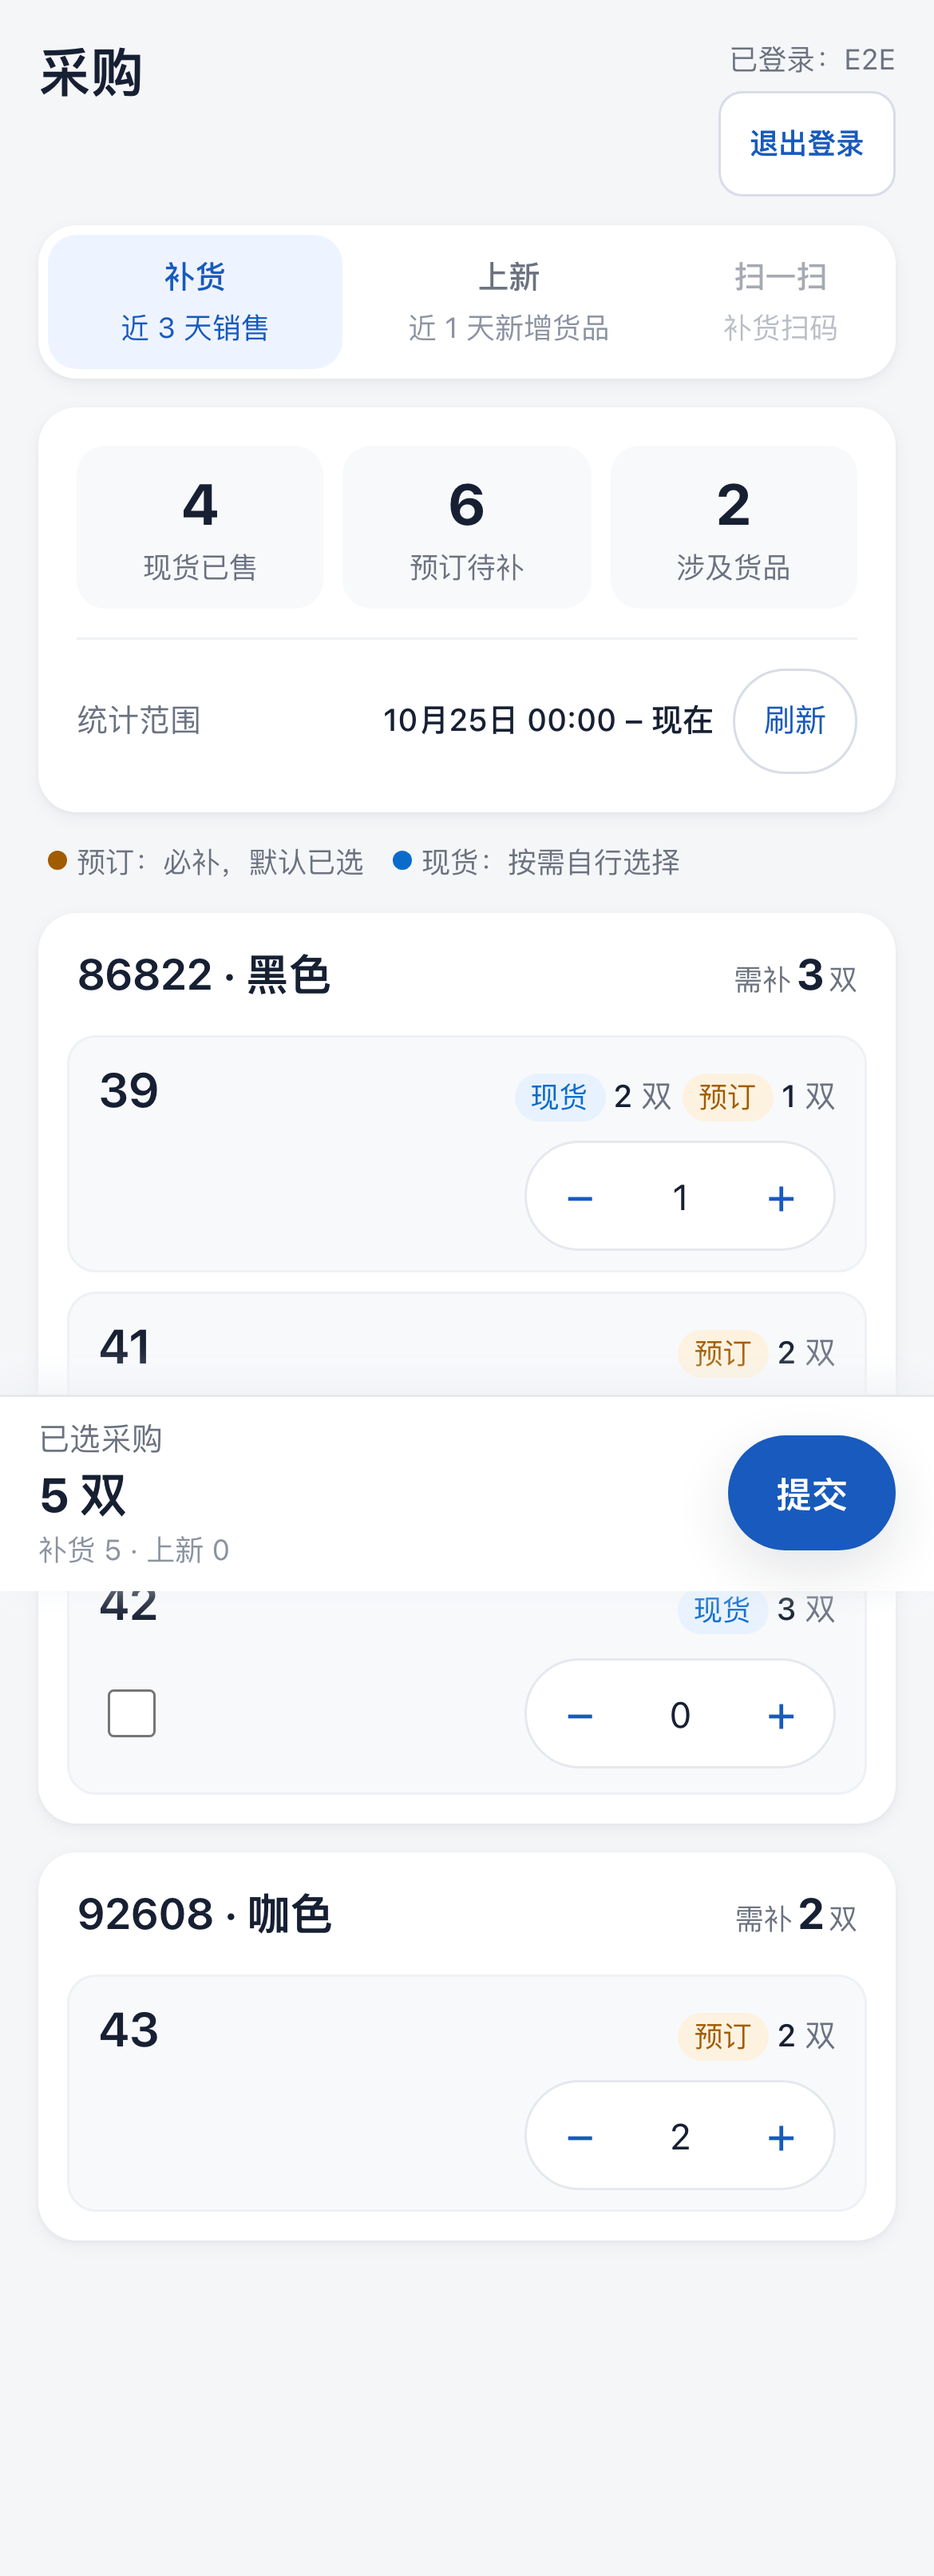
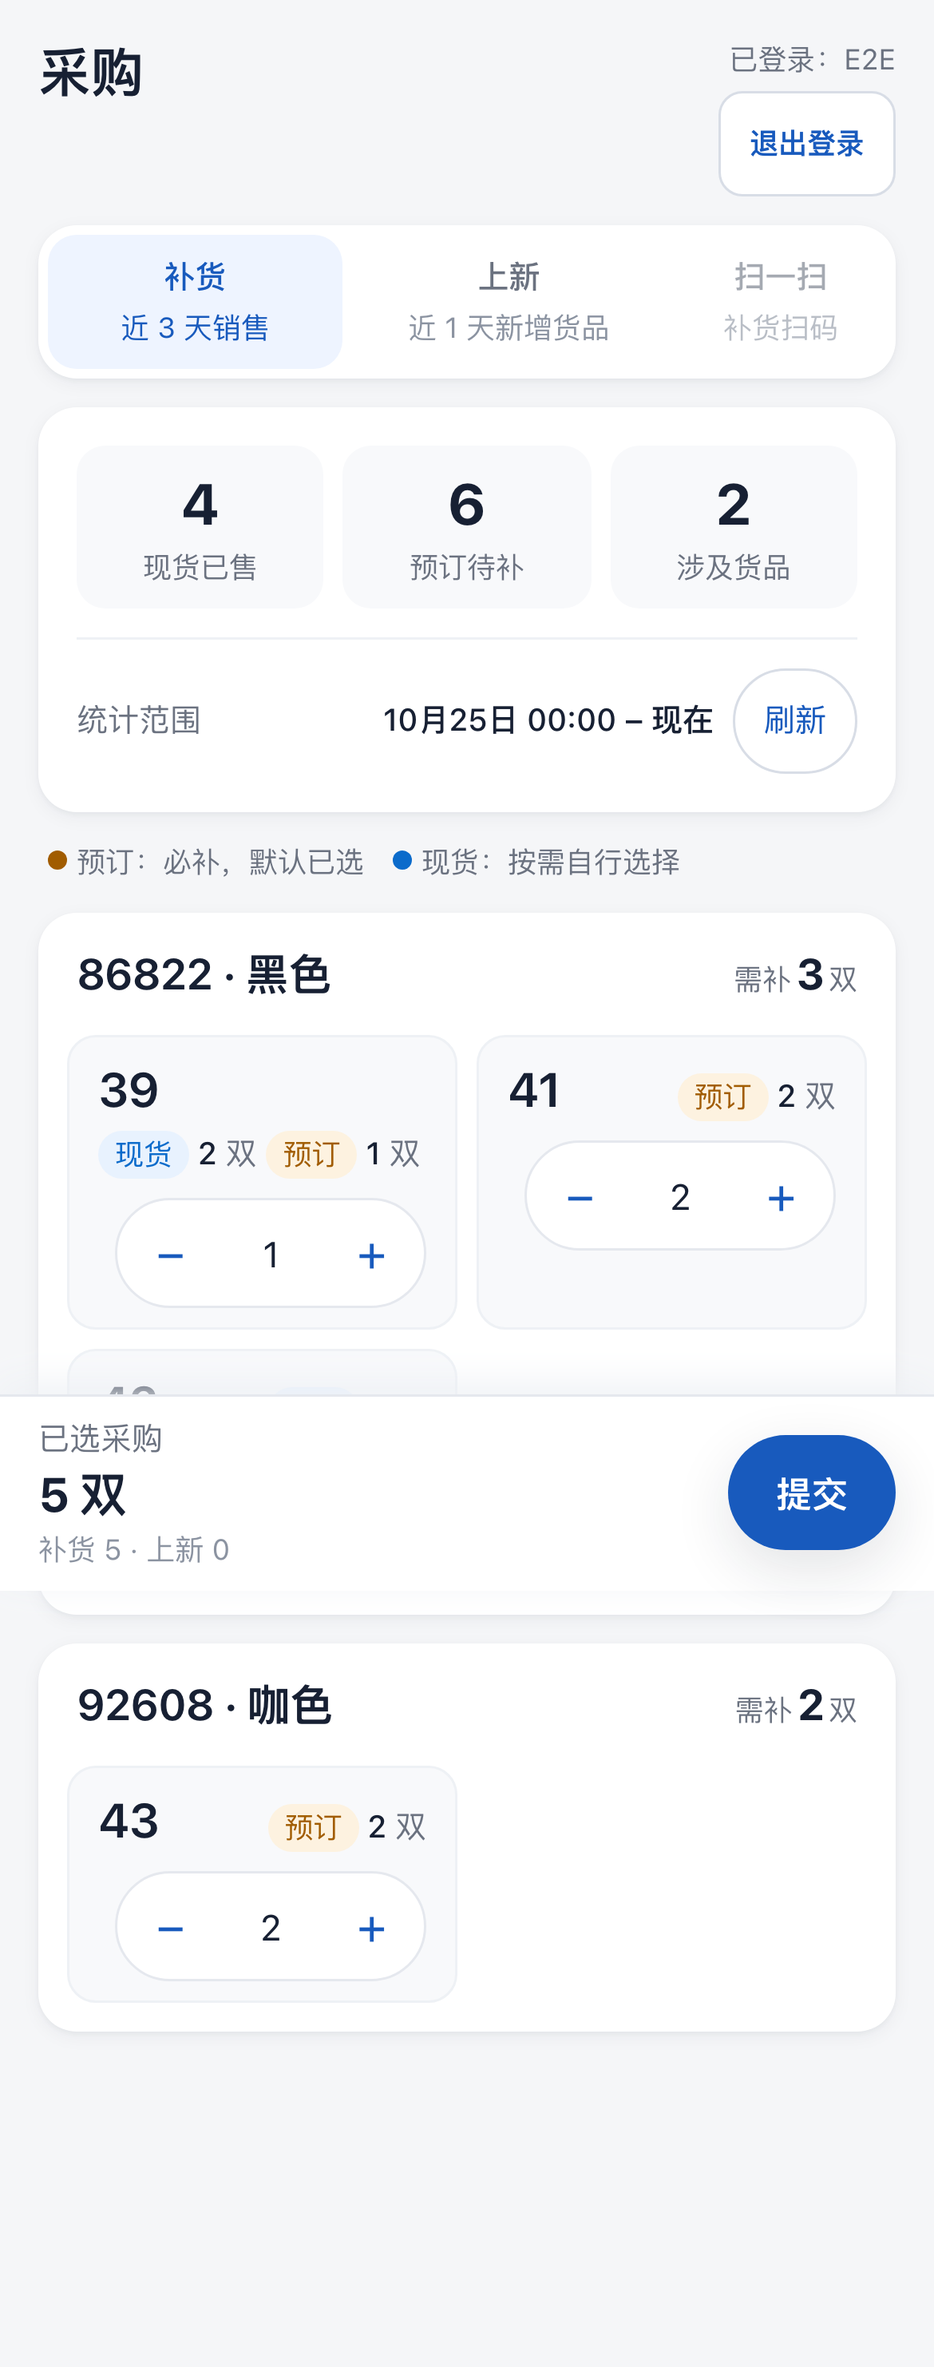
fix(procurement): 去掉所有尺码行勾选框 + 恢复一行两个尺码（业务负责人 2026-10-29 批注）
- 补货尺码行**不再显示任何勾选框**（预订行的对勾、现货行的方框都不要）；
  是否选中由数量框决定（0=不选，>0=选中）；现货行第一次点 + 按「现货已售数」选中，再 ± 微调，数量可直接手改；
- 尺码卡恢复**一行两个**（390 宽不横向滚动），每张卡仍保持上下两栏（尺码+现货/预订信息 / 加减圆框）；
- e2e 更新：全页无 [data-pr-check]；现货行 + 一次=现货数；docs 更新 AC-P18b/P18c。
- 全量 2262 tests / 2261 pass / 0 fail；e2e 14 passed；size:check 绿。

diff --git a/server/public/workbench/features/procurement/index.js b/server/public/workbench/features/procurement/index.js
@@ -12,7 +12,7 @@ import { requireFeishuAuth, showLoginButton } from '../../core/auth.js';
 import { describeError } from '../../core/ui.js';
 import { PROCUREMENT_UI as config } from '../../config/procurement.js';
 import { createApi } from './api.js';
-import { createDraftStore, clampQuantity, defaultNewQuantity, defaultReplenishQuantity } from './store.js';
+import { createDraftStore, clampQuantity } from './store.js';
 import { shellHtml, errorHtml, emptyHtml } from './render.js';
 import { createReplenishPanel } from './replenish.js';
 import { createNewProductsPanel } from './newProducts.js';
@@ -68,18 +68,14 @@ export function mountProcurementPage(host) {
     return { productRecordId: recordId, source: state.tab };
   };
 
-  const rowDefaults = (recordId, size) => {
+  /** 现货行"首次选中"的数量 = 现货已售数（业务口径：现货按需选择、勾选后数量=现货数；现在没有勾选框，用第一次 + 代替）。 */
+  const spotSoldOf = (recordId, size) => {
     for (const group of state.bodies.replenish?.groups || []) {
       if (group.productRecordId !== recordId) continue;
       const row = (group.sizes || []).find((one) => Number(one.size) === Number(size));
-      if (row) return defaultReplenishQuantity(row) || Number(row.spotSold) || 1;
+      if (row) return Number(row.spotSold) || 0;
     }
-    for (const group of state.bodies.new?.groups || []) {
-      if (group.productRecordId !== recordId) continue;
-      const kind = (group.sizes?.special || []).includes(Number(size)) ? 'special' : 'normal';
-      return defaultNewQuantity(kind, config.defaults);
-    }
-    return 1;
+    return 0;
   };
 
   const syncRow = (recordId, size) => {
@@ -87,11 +83,6 @@ export function mountProcurementPage(host) {
     host.querySelectorAll('[data-pr-qty]').forEach((input) => {
       if (input.dataset.record === recordId && Number(input.dataset.size) === Number(size)) {
         input.value = String(quantity);
-      }
-    });
-    host.querySelectorAll('[data-pr-check]').forEach((box) => {
-      if (box.dataset.record === recordId && Number(box.dataset.size) === Number(size)) {
-        box.checked = quantity > 0;
       }
     });
   };
@@ -143,8 +134,11 @@ export function mountProcurementPage(host) {
     const step = event.target.closest('[data-pr-step]');
     if (step) {
       const { record, size } = step.dataset;
-      const next = store.quantityOf(draft, record, Number(size)) + Number(step.dataset.prStep);
-      applyQuantity(record, Number(size), next);
+      const delta = Number(step.dataset.prStep);
+      const current = store.quantityOf(draft, record, Number(size));
+      // 没有勾选框：从 0 往上加 = "选中" —— 现货行按业务口径先给「现货已售数」，其它行给 1
+      const spot = current === 0 && delta > 0 ? spotSoldOf(record, Number(size)) : 0;
+      applyQuantity(record, Number(size), spot > 0 ? spot : current + delta);
       return;
     }
     if (event.target.closest('[data-pr-retry]')) { await load(state.tab, true); return; }
@@ -153,14 +147,6 @@ export function mountProcurementPage(host) {
       const result = await submitCtl.submit(host, draft);
       if (result.ok) { setDraft(store.ensure()); paint(state.tab); refreshNumbers(); }
     }
-  });
-
-  host.addEventListener('change', (event) => {
-    const box = event.target.closest('[data-pr-check]');
-    if (!box) return;
-    const { record, size } = box.dataset;
-    const quantity = box.checked ? rowDefaults(record, Number(size)) : 0;
-    applyQuantity(record, Number(size), quantity);
   });
 
   host.addEventListener('input', (event) => {

diff --git a/server/public/workbench/features/procurement/render.js b/server/public/workbench/features/procurement/render.js
@@ -51,8 +51,7 @@ const legendHtml = (tab, config) => {
   return `<div class="pr-legend">${items}</div>`;
 };
 
-const stepperHtml = ({ recordId, size, quantity, config, suffix }) => `<div class="pr-pick${suffix ? '' : ' pr-pick-no-check'}">
-    ${suffix || ''}
+const stepperHtml = ({ recordId, size, quantity, config }) => `<div class="pr-pick">
     <div class="pr-stepper">
       <button type="button" data-pr-step="-1" data-record="${escapeHtml(recordId)}" data-size="${escapeHtml(size)}">−</button>
       <input class="pr-qty" inputmode="numeric" pattern="[0-9]*" data-pr-qty data-record="${escapeHtml(recordId)}"
@@ -80,19 +79,15 @@ const saleTagsHtml = (row, config) => {
 
 const replenishRowHtml = (group, row, draft, store, config) => {
   const quantity = store.quantityOf(draft, group.productRecordId, row.size);
-  // 业务负责人 2026-10-29 批注：**预订行是必补、默认已选** ⇒ 不显示勾选框（那个"对勾"是多余的）；
-  // 只有「只有现货」的尺码才需要勾选（现货按需自行选择）。
-  const prepaidOnlyOrMixed = Number(row.prepaidSold) > 0;
-  const checkbox = prepaidOnlyOrMixed ? '' : `<label><input type="checkbox" data-pr-check data-record="${escapeHtml(group.productRecordId)}"
-    data-size="${escapeHtml(row.size)}"${quantity > 0 ? ' checked' : ''}></label>`;
-  // 业务负责人 2026-10-29 批注：每个尺码卡改成**上下两栏** ——
-  //   第一行：尺码 + 现货/预订对应数量信息；第二行：加减数量圆框（窄屏不再挤成一小撮）。
+  // 业务负责人 2026-10-29 两次批注：
+  //   ① 预订（必补）行不要"对勾"；② 现货行也**不要方框** —— 补货数量由数量框决定（0=不选，>0=选中）。
+  // 每个尺码卡仍然**上下两栏**：第一行 尺码 + 现货/预订数量；第二行 加减数量圆框。
   return `<div class="pr-size-row">
     <div class="pr-size-row-head">
       <div class="pr-size">${escapeHtml(row.size)}</div>
       ${saleTagsHtml(row, config)}
     </div>
-    ${stepperHtml({ recordId: group.productRecordId, size: row.size, quantity, config, suffix: checkbox })}
+    ${stepperHtml({ recordId: group.productRecordId, size: row.size, quantity, config })}
   </div>`;
 };
 

diff --git a/server/public/workbench/procurement.css b/server/public/workbench/procurement.css
@@ -51,12 +51,11 @@
 
 /* 补货尺码行（每行一个数量框） */
 /* 补货尺码卡：**上下两栏** —— 第一行「尺码 + 现货/预订数量」，第二行「加减数量圆框」（业务负责人 2026-10-29 批注） */
-.pr-size-row { display: flex; flex-direction: column; align-items: stretch; gap: var(--space-2); width: 100%; padding: var(--space-2) var(--space-3); border: 1px solid var(--border-light); border-radius: var(--radius-md); background: var(--surface-soft); }
-.pr-size-row-head { display: flex; align-items: baseline; justify-content: space-between; gap: var(--space-2); min-width: 0; }
+.pr-size-row { display: flex; flex-direction: column; align-items: stretch; gap: var(--space-2); width: calc(50% - var(--space-1)); padding: var(--space-2) var(--space-3); border: 1px solid var(--border-light); border-radius: var(--radius-md); background: var(--surface-soft); }
+.pr-size-row-head { display: flex; flex-wrap: wrap; align-items: baseline; justify-content: space-between; gap: var(--space-1) var(--space-2); min-width: 0; }
 .pr-size { font-size: var(--font-size-xl); font-weight: var(--weight-bold); line-height: var(--line-height-tight); }
 .pr-sale { display: flex; flex-wrap: wrap; justify-content: flex-end; gap: var(--space-1); font-size: var(--font-size-sm); color: var(--text-secondary); }
-.pr-size-row .pr-pick { justify-content: space-between; }
-.pr-size-row .pr-pick-no-check { justify-content: flex-end; }
+.pr-size-row .pr-pick { justify-content: flex-end; }
 .pr-sale b { font-weight: var(--weight-medium); color: var(--text); }
 .pr-tag { display: inline-flex; align-items: center; padding: 1px 7px; border-radius: var(--radius-pill); font-size: var(--font-size-xs); line-height: 18px; }
 .pr-tag-spot { background: var(--info-soft); color: var(--info); }

diff --git a/docs/procurement-page-real-2026-10-28.md b/docs/procurement-page-real-2026-10-28.md
@@ -109,10 +109,11 @@ tab 切换保留当前会话已选数据；点「提交」才统一写入
 - **AC-P17 薄壳 + 模块化**：`procurement.html` 只做壳（引 CSS/模块、挂载根节点，≤200 行）；业务逻辑全在
   `features/procurement/**`；文案/默认值/尺码规则/端点/刷新参数全在 `config/procurement.js`；
   新文件每个 ≤200 行；**不往旧 398 行演示页补逻辑，整体替换**。
-- **AC-P18c 补货尺码卡上下两栏**（业务负责人 2026-10-29 批注）：每个尺码卡 = 第一行「尺码 + 现货/预订数量信息」、
-  第二行「加减数量圆框」；卡片**整行一条**（不再半宽挤成一小撮），只有现货行保留勾选框（与 AC-P18b 一致）。
-- **AC-P18b 预订行不显示勾选框**（业务负责人 2026-10-29 批注）：**预订（含现货+预订混合）尺码行不出现勾选框**，
-  因为"预订必补、默认已选"，那个对勾是多余的；**只有「只有现货」的尺码行**才有勾选框（现货按需自行选择，勾上数量=现货数）。
+- **AC-P18c 补货尺码卡 = 一行两个 + 上下两栏**（业务负责人 2026-10-29 批注）：每个尺码卡 = 第一行「尺码 + 现货/预订数量信息」、
+  第二行「加减数量圆框」；尺码卡**一行两个**（390 宽下也不横向滚动）。
+- **AC-P18b 所有尺码行都不显示勾选框**（业务负责人 2026-10-29 两次批注）：预订行的"对勾"、现货行的"方框"都不要；
+  **是否选中由数量框决定（0 = 不选，>0 = 选中）**；预订行默认已选（数量 = 预订数）；
+  现货行第一次点「+」按业务口径先给「现货已售数」（再按 ± 微调）；数量可直接手改。
 - **AC-P18 视觉 = 原型**：三 tab（补货 / 上新 / 扫一扫）、顶部统计卡、统计范围、图例、分组卡、尺码行、底部固定提交条
   与 `docs/prototypes/procurement-board-2026-10-27.html` 一致；**颜色只引用 `styles/tokens.css` 的 token，
   不写 hex/rgb，不写内联 style**（反向哨兵：新文件里 `#rrggbb` / `rgb(` / `style="` 出现即红）。
